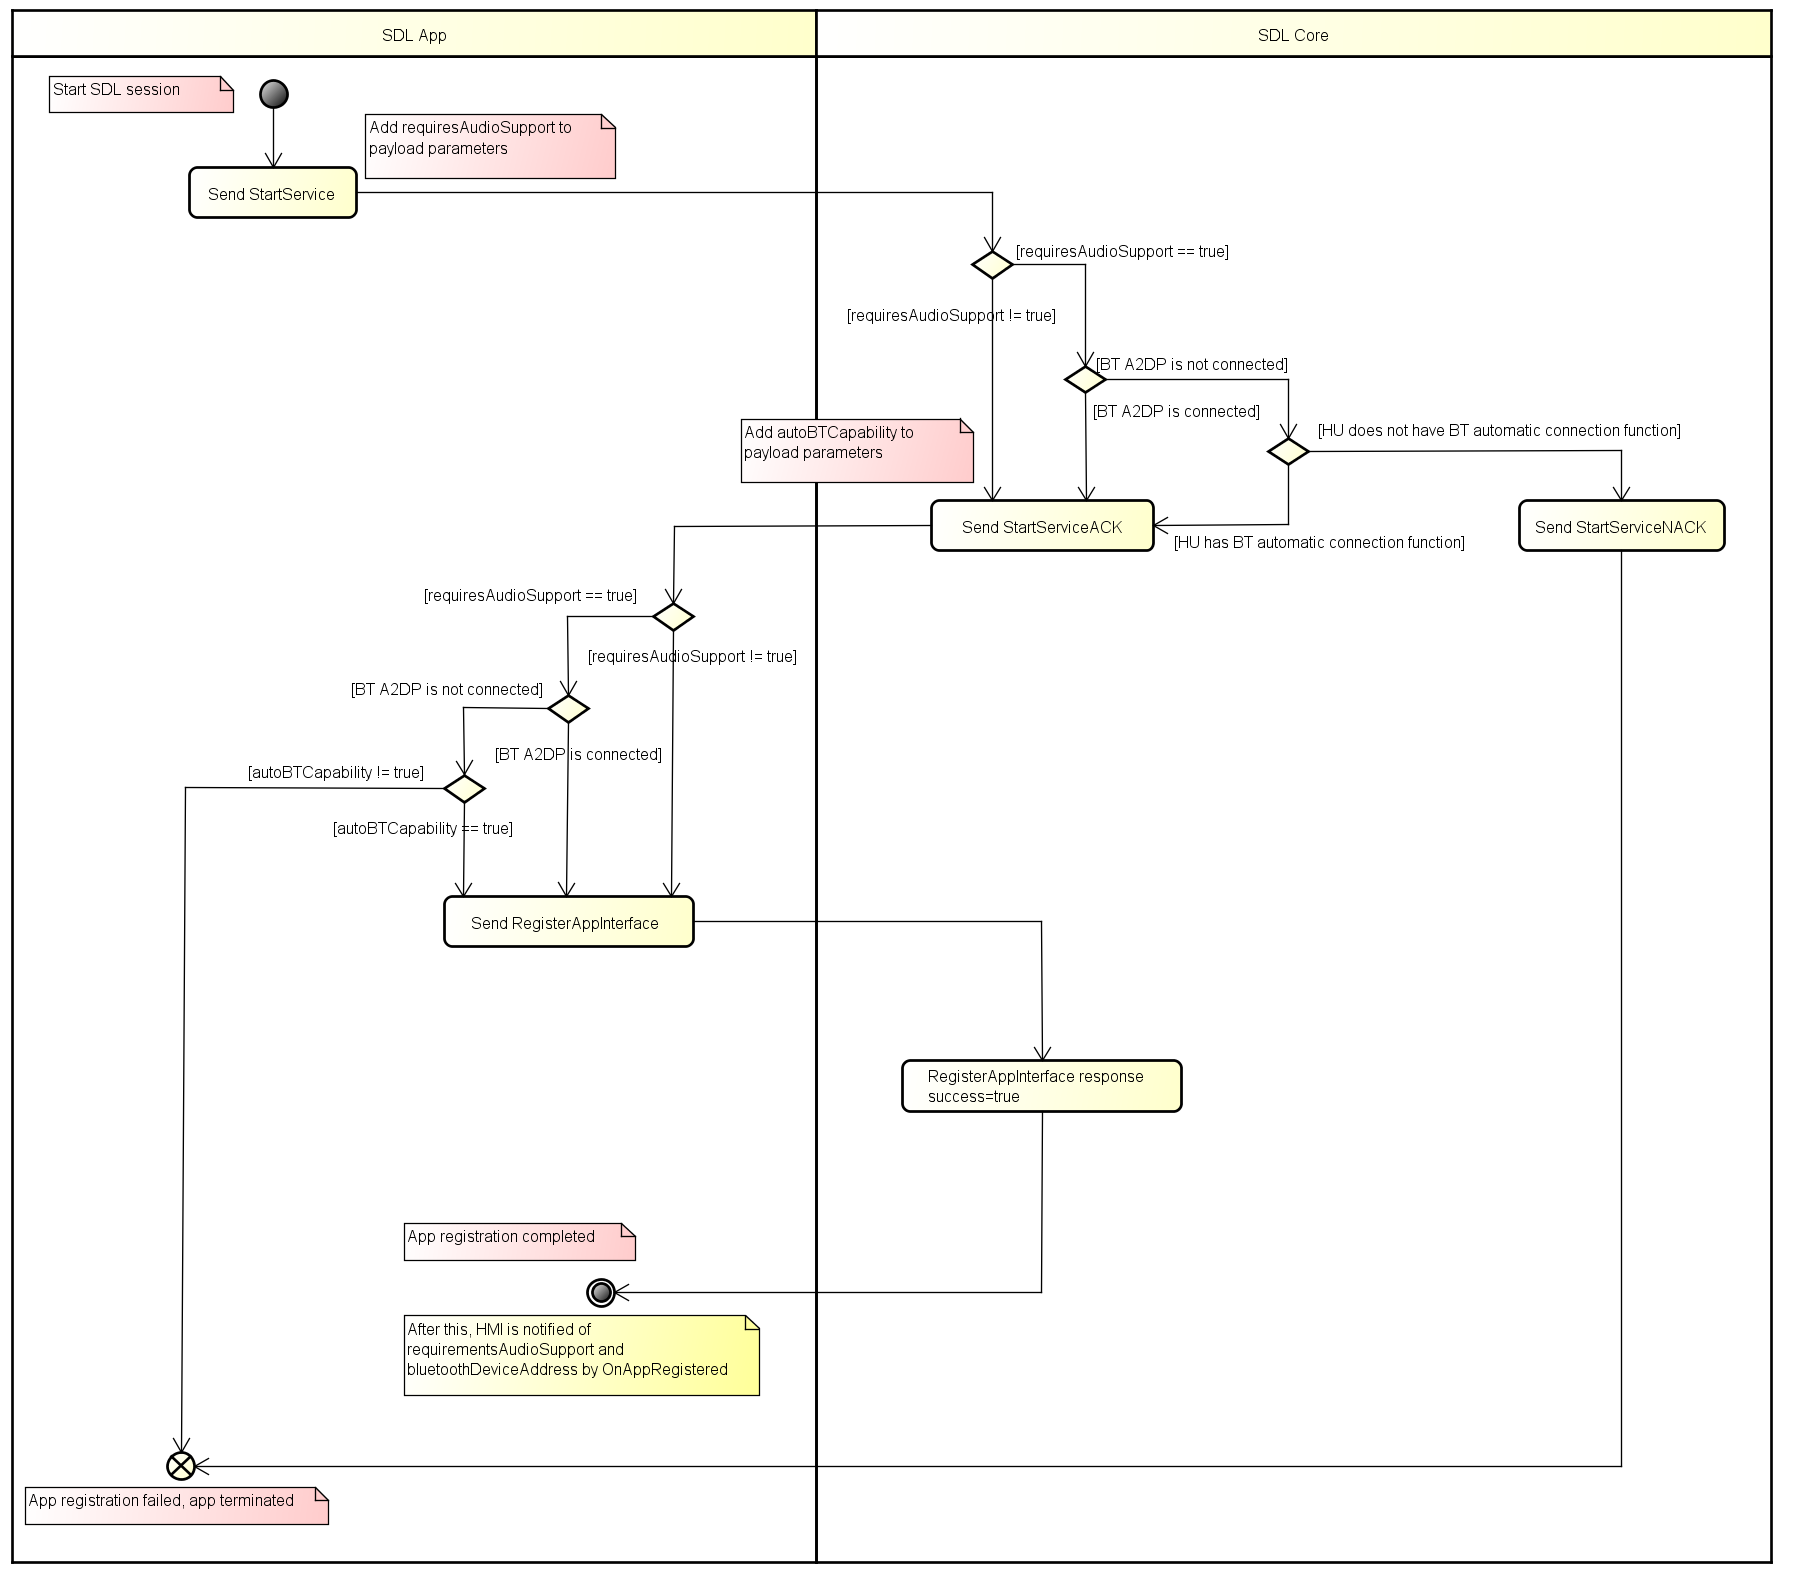
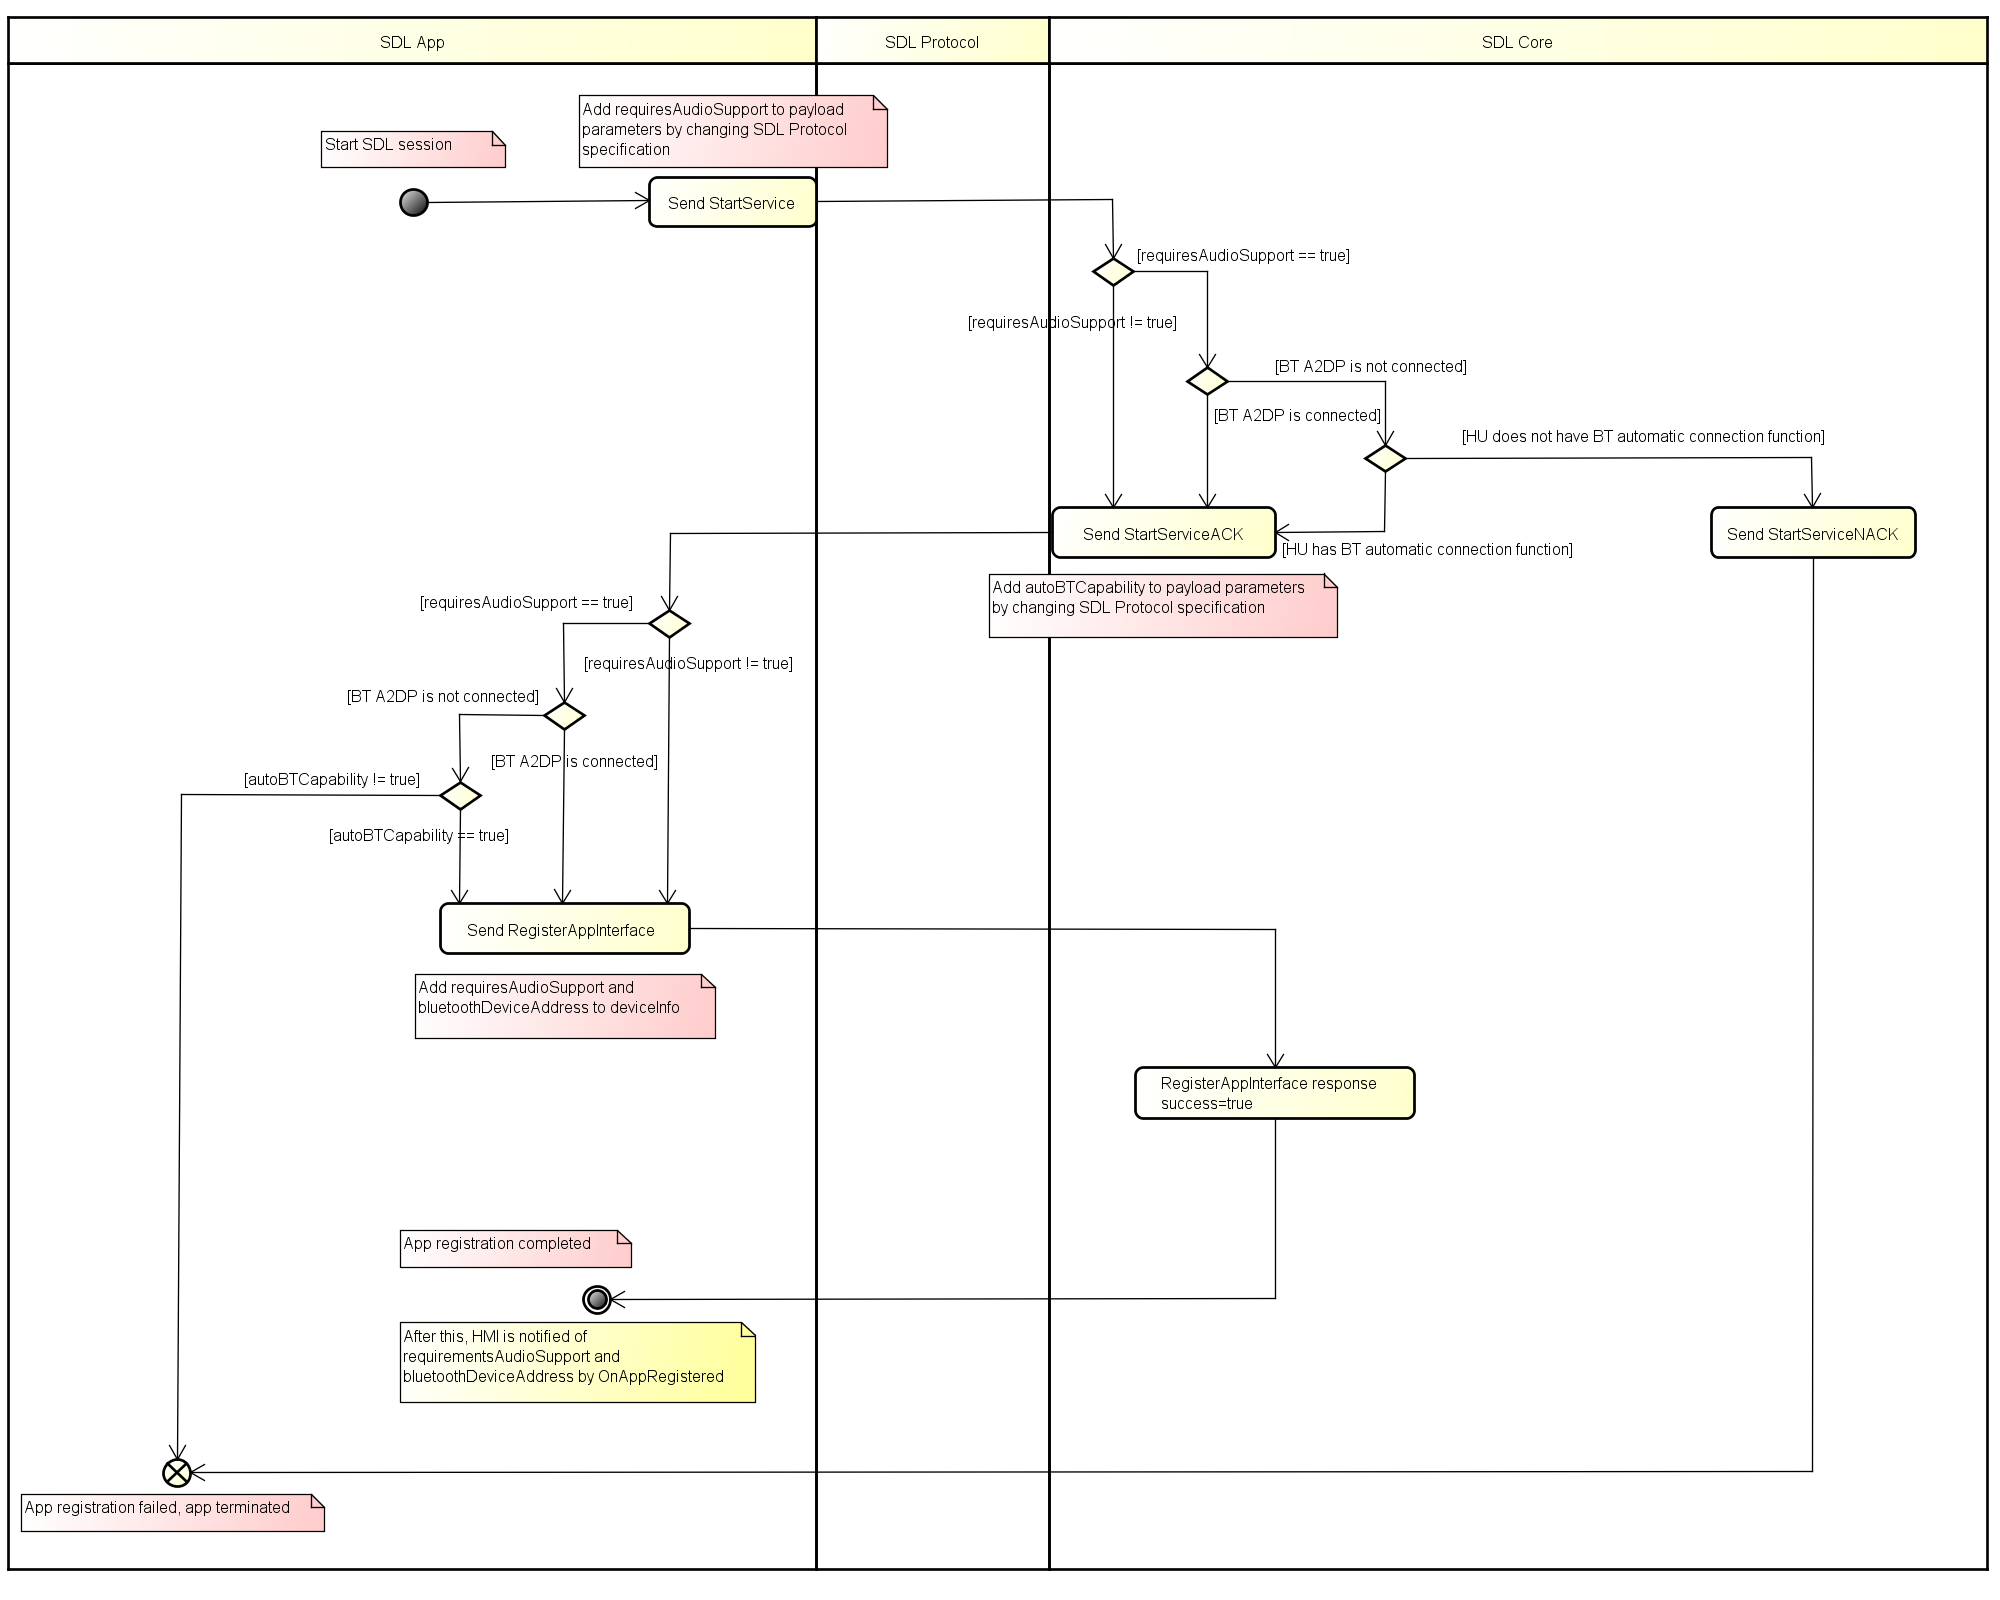
Added flow details and protocol description

diff --git a/proposals/0280-Adding-new-parameter-of-requiresAudioSupport-and-BluetoothDeviceAddress.md b/proposals/0280-Adding-new-parameter-of-requiresAudioSupport-and-BluetoothDeviceAddress.md
@@ -27,6 +27,24 @@ In order for the app to be always registered, the changes in SDL session establi
 
 ![registeringApp_flow](../assets/proposals/0280-Adding-new-parameter-of-requiresAudioSupport-and-BluetoothDeviceAddress/registeringApp_flow.png)
 
+1. The developer will set their `requiresAudioSupport` to true.
+2. The library will send a `StartService` for the RPC service with a new param in the payload, `requiresAudioSupport`.
+3. Core will receive the `StartService` for the RPC service:
+3-1. If `requiresAudioSupport` was set to false or not set, it will continue in flow.
+3-2. Core will check it's current audio connects (BT A2DP), if it has a supported audio connect it will continue in flow.
+3-3. If there is no Audio support, core will check if it supports the auto connect BT function. If it does it will continue in flow.
+3-4. If `requiresAudioSupport` is true and there is no supported audio methods and Core does not support the auto connect BT function, it will send a `StartServiceNAK` with the reason `No audio support available`.
+4. If it supports the auto connect BT function, a new param in the payload, autoBTCapability set to true, otherwise set to false. Then if core has continued, it will send a `StartServiceACK`.
+5. The app receives the response to its StartService for the RPC service:
+5-1. If the response was a `StartServiceNAK`, the app will shutdown.
+5-2. If the response was a `StartServiceACK`, it will continue in flow.
+5-3. If `requiresAudioSupport` was set to false or not set, it will continue in flow.
+5-4. The library check it's current audio connects (BT A2DP), if it has a supported audio connect it will continue in flow.
+5-5. If `autoBTCapability` was set to true, t will continue in flow.
+5-6. If the response was a `StartServiceACK` and `requiresAudioSupport` was set to true and autoBTCapability was set to false, the app will shutdown.
+6. The app will send its RegisterAppInterface which will include `requiresAudioSupport` and `bluetoothDeviceAddress` in `deviceInfo`.
+7. When core receives RegisterAppInterface, it sends response. Then it will send `OnAppRegistered` include `deviceInfo` to HMI.
+
 
 #### Preconditions
 
@@ -45,10 +63,12 @@ If the SDL app or HU cannot use this function, it will perform the same operatio
 - StartService
 `requiresAudioSupport` is added to the payload of `StartService`.
 Similar to the default in the existing Java Suite library, `requiresAudioSupport` is set to true for media apps and false for other types of apps. However, app developers can change these settings if needed.
+Core considers `requireAudioSupport` to be false if `StartService` is the protocol version that does not support this function, or if it supports this function but `requireAudioSupport` is not set.
 
 - StartServiceACK
 `autoBTCapability` is added to the payload of `StartServiceACK`.
 Additionally, a new parameter `autoBTConnection`, which indicates whether the HU has the BT automatic connection function, is added to `HMICapabilities`. SDL Core sets `autoBTCapability` to true, if `autoBTConnection` is true.
+The app considers `autoBTCapability` to be false if `StartServiceACK` is the protocol version that does not support this function, or if it supports this function but `autoBTCapability` is not set.
 
 HMI API:
 ```xml
